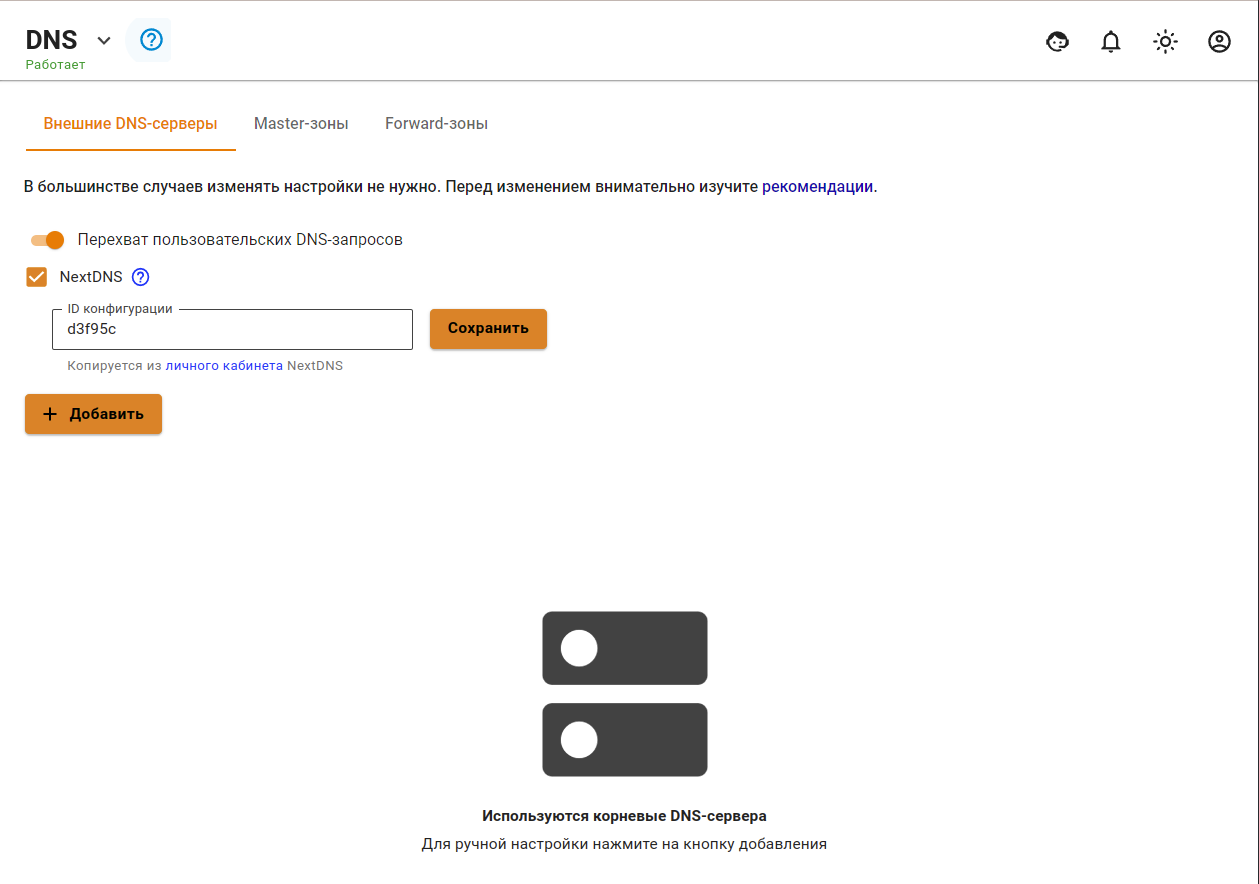
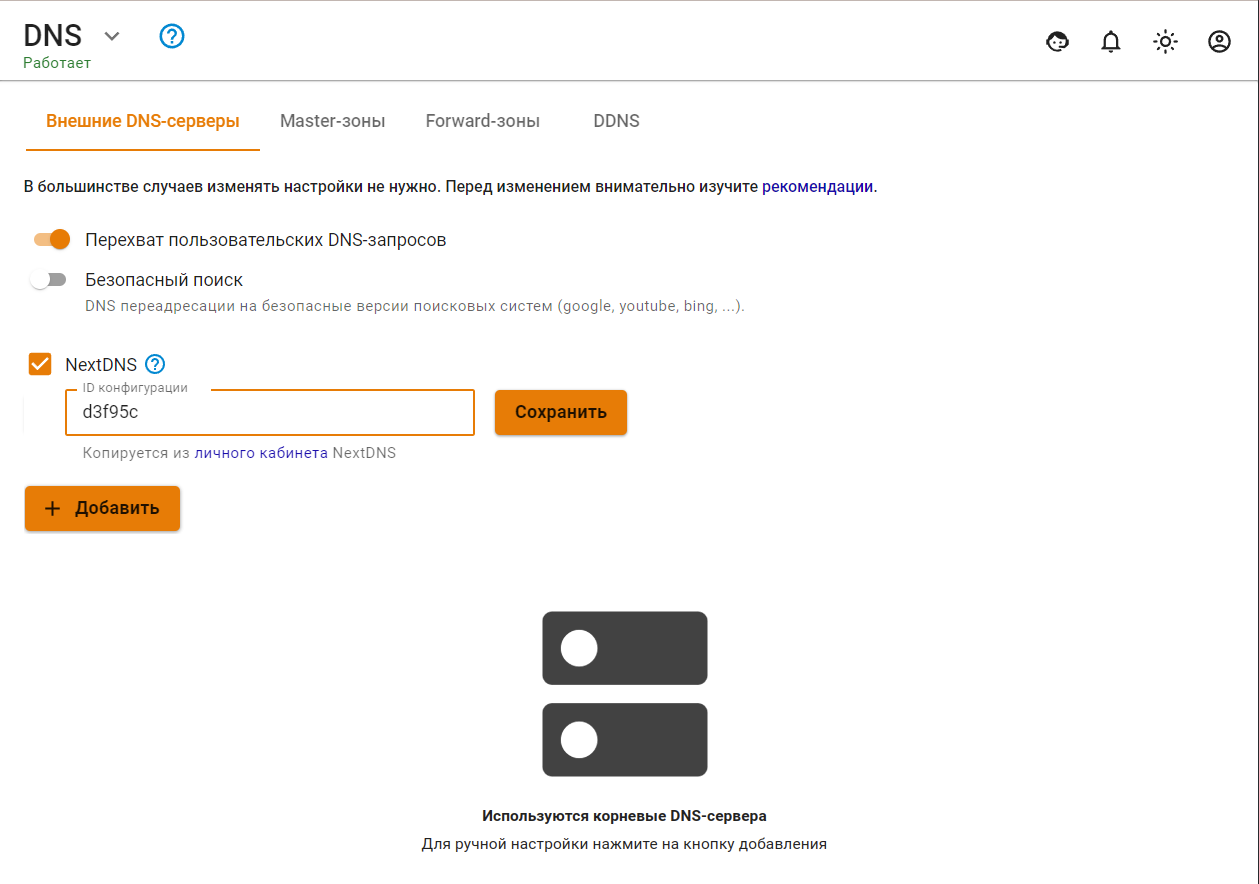
ICS-27508 УТМ. Новый раздел DDNS в Сервисы/ревью Тябина

diff --git a/settings/server-management/central-console/services.md b/settings/server-management/central-console/services.md
@@ -29,7 +29,7 @@ DDNS в Ideco UTM реализован через интеграцию с хос
 
 ### Настройка DDNS
 
-1\. После входа в личный кабинет [RU-CENTER](https://www.nic.ru/) откроется страница [Для клиентов](https://www.nic.ru/manager/manager.cgi/). Для дальнейшей работы откройте 2 раздела - **Мои домены** и **DNS-хостинг**:
+1\. После входа в личный кабинет [RU-CENTER](https://www.nic.ru/) откроется страница [Для клиентов](https://www.nic.ru/manager/manager.cgi/). Для дальнейшей работы откройте два раздела - **Мои домены** и **DNS-хостинг**:
 
 ![](../../../.gitbook/assets/ddns.png)
 
@@ -51,7 +51,7 @@ DDNS в Ideco UTM реализован через интеграцию с хос
 
 5\. Выберите нужный домен или добавьте, нажав соответствующую кнопку.
 
-6\. Добавьте 2 записи по кнопке **Добавить новую запись**:
+6\. Добавьте две записи по кнопке **Добавить новую запись**:
 * Первая запись:
   * Name - укажите знак `@`;
   * Type - выберите тип `А`;
@@ -73,4 +73,4 @@ DDNS в Ideco UTM реализован через интеграцию с хос
 
 ![](../../../.gitbook/assets/ddns3.png)
 
-9\. Сохраните настройки в Ideco Center нажав **Сохранить**.
+9\. Сохраните настройки в Ideco Center, нажав **Сохранить**.
